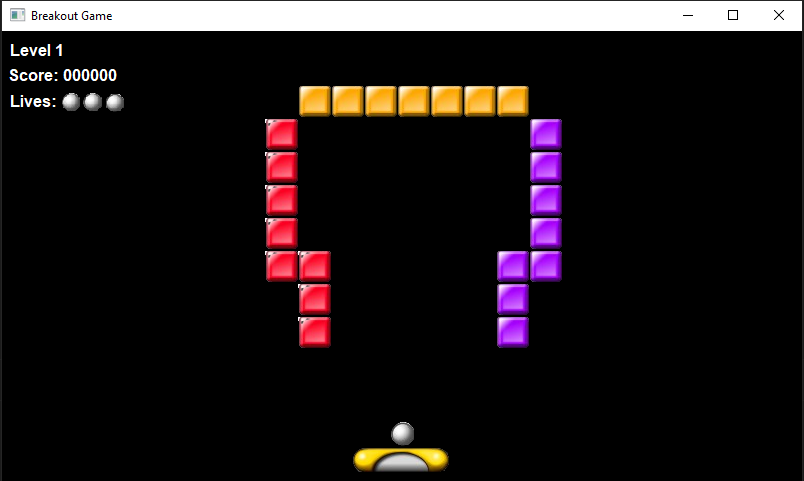
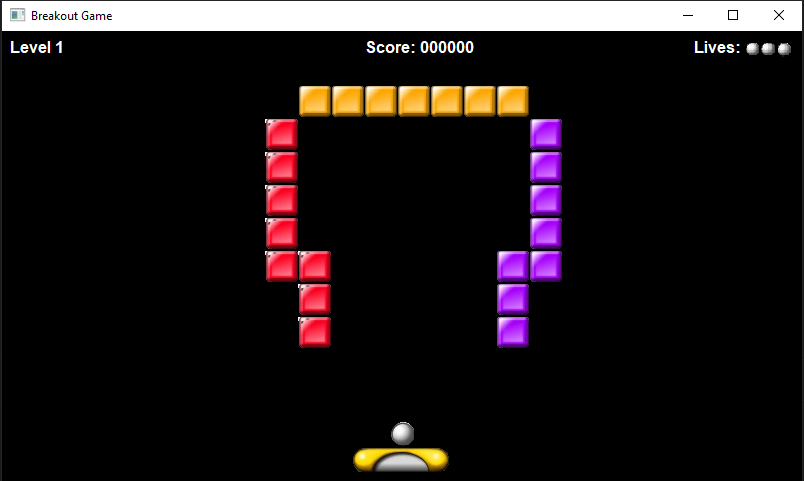
hud

Changed region(s): [[0.0, 0.0936, 0.1555, 0.2495], [0.4353, 0.0624, 0.5908, 0.1247], [0.8706, 0.0936, 0.995, 0.1247]]

diff --git a/BreakoutGame/core/src/com/taptap/breakout/Hud.java b/BreakoutGame/core/src/com/taptap/breakout/Hud.java
@@ -5,8 +5,10 @@ import com.badlogic.gdx.graphics.Color;
 import com.badlogic.gdx.graphics.GL20;
 import com.badlogic.gdx.graphics.OrthographicCamera;
 import com.badlogic.gdx.graphics.g2d.BitmapFont;
+import com.badlogic.gdx.graphics.g2d.TextureAtlas;
 import com.badlogic.gdx.graphics.g2d.TextureRegion;
 import com.badlogic.gdx.scenes.scene2d.Stage;
+import com.badlogic.gdx.scenes.scene2d.ui.Image;
 import com.badlogic.gdx.scenes.scene2d.ui.Label;
 import com.badlogic.gdx.scenes.scene2d.ui.Table;
 import com.badlogic.gdx.utils.Align;
@@ -18,21 +20,46 @@ import com.badlogic.gdx.utils.viewport.Viewport;
 public class Hud implements Disposable {
     private BreakoutGame game;
     private Stage stage;
+    private Table table;
     private Viewport viewport;
 
+    private TextureAtlas textures;
     private TextureRegion ballTexture;
     private Label scoreLabel, levelLabel, livesLabel;
+    private Image ballImage;
     private int score, level, lives;
 
-    public Hud(BreakoutGame game, TextureRegion ballTexture){
+    public void setScore(int score) {
+        this.score = score;
+    }
+
+    public void setLevel(int level) {
+        this.level = level;
+    }
+
+    public void setLives(int lives) {
+        this.lives = lives;
+    }
+
+    public Hud(BreakoutGame game){
         this.game = game;
-        this.ballTexture = ballTexture;
+
+        textures = game.assetManager.manager.get(game.assetManager.gameImages);
+
+        ballTexture = new TextureRegion(
+                textures.findRegion("ball-sheet-removebg-preview"),
+                8, 31, 25, 25
+        );
+
+
+        score = 0;
+        lives = 3;
 
         viewport = new FitViewport(Utilities.VIRTUAL_WIDTH, Utilities.VIRTUAL_HEIGHT,
                 new OrthographicCamera());
         stage = new Stage(viewport);
 
-        Table table = new Table();
+        table = new Table();
         table.setFillParent(true);
         table.setDebug(true);
 
@@ -45,12 +72,21 @@ public class Hud implements Disposable {
         livesLabel = new Label("Lives: ", new Label.LabelStyle(
                 game.assetManager.manager.get(game.assetManager.fontSmall, BitmapFont.class), Color.WHITE));
 
-        table.top().left();
-        table.add(levelLabel).left();
-        table.row();
-        table.add(scoreLabel).left();
-        table.row();
-        table.add(livesLabel).left();
+        table.top();
+
+        // add lives
+        Table livesTabel = new Table();
+        livesTabel.setDebug(false);
+        livesTabel.add(livesLabel);
+        for(int i = 0; i < lives; i++){
+            ballImage = new Image(ballTexture);
+            ballImage.setScale(0.85f);
+            livesTabel.add(ballImage);
+        }
+
+        table.add(livesTabel).left().expandX();
+        table.add(scoreLabel).center().padRight(50).expandX();
+        table.add(levelLabel).right().expandX();
         stage.addActor(table);
     }
 

diff --git a/BreakoutGame/core/src/com/taptap/breakout/screens/MainScreen.java b/BreakoutGame/core/src/com/taptap/breakout/screens/MainScreen.java
@@ -29,6 +29,7 @@ public class MainScreen implements Screen {
 
     private SpriteBatch sb;
     private PooledEngine engine;
+    private CollisionSystem collisionSystem;
 
     private KeyboardController controller;
 
@@ -55,20 +56,16 @@ public class MainScreen implements Screen {
         sb.setProjectionMatrix(cam.combined);
         engine.addSystem(new RenderingSystem(sb, cam));
         engine.addSystem(new PhysicsSystem(world, engine));
-//        engine.addSystem(new PhysicsDebugSystem(world, cam));
+        engine.addSystem(new PhysicsDebugSystem(world, cam));
         engine.addSystem(new BallSystem());
         engine.addSystem(new AttachSystem());
-        engine.addSystem(new CollisionSystem());
+
+        collisionSystem = new CollisionSystem();
+        engine.addSystem(collisionSystem);
         engine.addSystem(new PlayerControlSystem(controller, levelManager));
 
-        loadHud();
+        hud = new Hud(game);
     }
-
-    private void loadHud(){
-        // todo load ball texture region (replace null with texture region)
-        hud = new Hud(game, null);
-    }
-
     @Override
     public void show() {
         Gdx.input.setInputProcessor(controller);

diff --git a/BreakoutGame/core/src/com/taptap/breakout/level/LevelLoader.java b/BreakoutGame/core/src/com/taptap/breakout/level/LevelLoader.java
@@ -181,10 +181,7 @@ public class LevelLoader {
         typeC.type = TypeComponent.PLAYER;
 
         // attach ball to player
-        System.out.println("Attached Ball to Paddle");
         attachC.setAttachedEntity(ballEntity);
-
-        System.out.println(attachC.attachedEntity);
 
         // load texture
         tc.region = new TextureRegion(

diff --git a/BreakoutGame/core/src/com/taptap/breakout/ecs/systems/PhysicsDebugSystem.java b/BreakoutGame/core/src/com/taptap/breakout/ecs/systems/PhysicsDebugSystem.java
@@ -20,7 +20,8 @@ public class PhysicsDebugSystem extends IteratingSystem {
         super(Family.all().get());
         this.world = world;
         this.cam = cam;
-        debugRenderer = new Box2DDebugRenderer();
+        debugRenderer = new Box2DDebugRenderer(
+                true,true,true,true,true,true);
     }
 
     @Override
